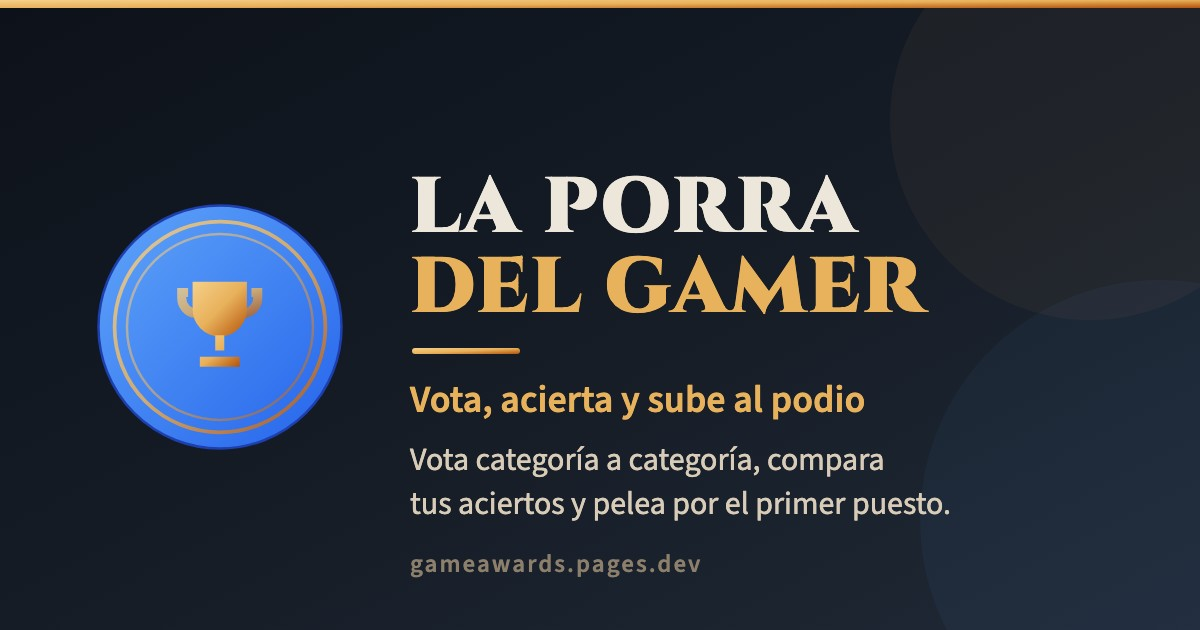
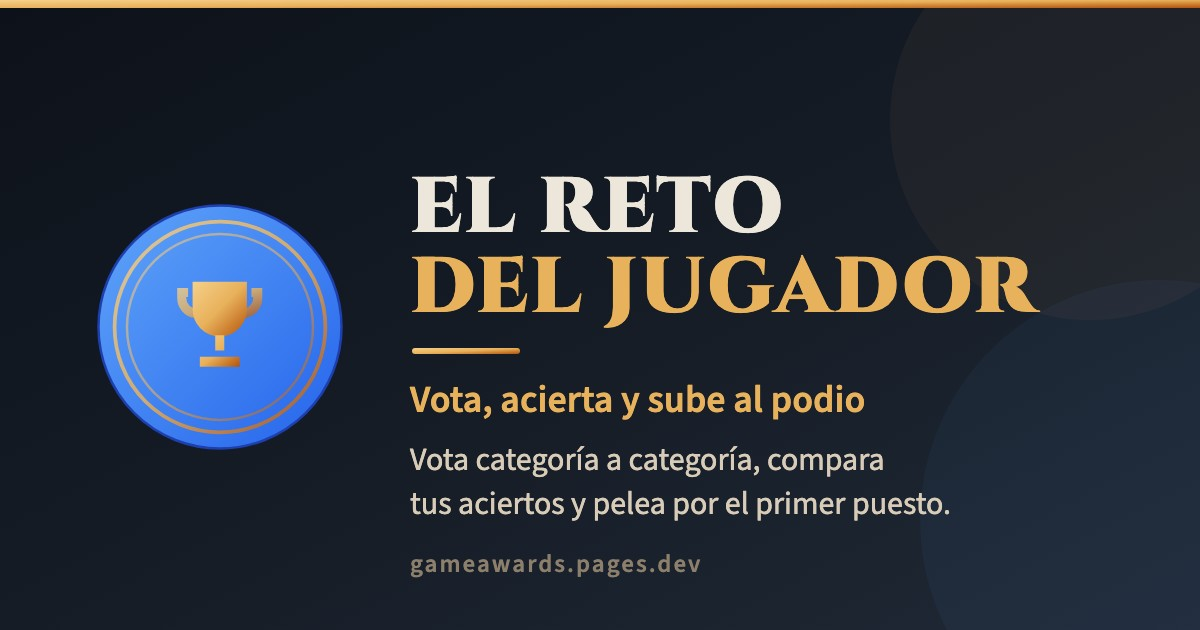
feat: la app pasa a llamarse «El reto del jugador»
Cambia el nombre en i18n (ES: EL RETO / DEL JUGADOR; EN: THE GAMER'S /
CHALLENGE), los metadatos de index.html y la tarjeta al compartir, y
reescribe los textos donde «porra» quedaba como palabra suelta.

El título del login baja a 34px en móviles estrechos: «DEL JUGADOR» mide
386px a 48px y no cabía ni en un viewport de 375.

Changed region(s): [[0.37, 0.2714, 0.8633, 0.5429]]

diff --git a/index.html b/index.html
@@ -4,8 +4,8 @@
     <meta charset="UTF-8" />
     <link rel="icon" type="image/svg+xml" href="/app-icon.svg" />
     <meta name="viewport" content="width=device-width, initial-scale=1.0" />
-    <title>La porra del gamer</title>
-    <meta name="description" content="Participa en la porra del gamer. Vota categoría a categoría y compite por el primer puesto." />
+    <title>El reto del jugador</title>
+    <meta name="description" content="Participa en El reto del jugador. Vota categoría a categoría y compite por el primer puesto." />
     <meta name="theme-color" content="#d8cfbb" />
 
     <!-- Previsualización al compartir el enlace (Open Graph + Twitter Cards).
@@ -21,20 +21,20 @@
          relativas, porque leen el HTML fuera del contexto de la página. -->
     <meta property="og:type" content="website" />
     <meta property="og:url" content="https://gameawards.pages.dev/" />
-    <meta property="og:site_name" content="La porra del gamer" />
+    <meta property="og:site_name" content="El reto del jugador" />
     <meta property="og:locale" content="es_ES" />
-    <meta property="og:title" content="La porra del gamer" />
+    <meta property="og:title" content="El reto del jugador" />
     <meta property="og:description" content="Vota categoría a categoría, compara tus aciertos y pelea por el primer puesto." />
     <meta property="og:image" content="https://gameawards.pages.dev/share-card.jpg" />
     <meta property="og:image:type" content="image/jpeg" />
     <meta property="og:image:width" content="1200" />
     <meta property="og:image:height" content="630" />
-    <meta property="og:image:alt" content="La porra del gamer" />
+    <meta property="og:image:alt" content="El reto del jugador" />
     <meta name="twitter:card" content="summary_large_image" />
-    <meta name="twitter:title" content="La porra del gamer" />
+    <meta name="twitter:title" content="El reto del jugador" />
     <meta name="twitter:description" content="Vota categoría a categoría, compara tus aciertos y pelea por el primer puesto." />
     <meta name="twitter:image" content="https://gameawards.pages.dev/share-card.jpg" />
-    <meta name="twitter:image:alt" content="La porra del gamer" />
+    <meta name="twitter:image:alt" content="El reto del jugador" />
     <link rel="preconnect" href="https://fonts.googleapis.com" />
     <link rel="preconnect" href="https://fonts.gstatic.com" crossorigin />
     <link href="https://fonts.googleapis.com/css2?family=Cinzel:wght@500;700;900&family=Source+Sans+3:wght@400;500;600;700&display=swap" rel="stylesheet" />

diff --git a/src/data/i18n/es.js b/src/data/i18n/es.js
@@ -5,12 +5,12 @@
 
 export const es = {
   // Header
-  appTitle: "LA PORRA",
-  appTitleAccent: "DEL GAMER",
+  appTitle: "EL RETO",
+  appTitleAccent: "DEL JUGADOR",
   votingOpen: "La votación está abierta",
   
   // Login
-  loginSubtitle: "Participa en la porra y compite por el primer puesto",
+  loginSubtitle: "Acepta el reto y compite por el primer puesto",
   resultsAvailable: "Resultados disponibles",
   loginForResultsSubtitle: "La edición ya ha terminado. Entra con tu cuenta de Google para ver los ganadores y la clasificación.",
   loginBtn: "Inicia sesión con Google",
@@ -85,7 +85,7 @@ export const es = {
   checkBackDecember: "Vuelve cuando se publiquen los resultados.",
   signOut: "Cerrar sesión",
   thankYouForVoting: "Gracias por votar",
-  officialsVotingPlatform: "La porra del gamer",
+  officialsVotingPlatform: "El reto del jugador",
   
   // Ya votó (bloqueo de re-voto)
   alreadyVotedTitle: "Ya has votado",
@@ -97,7 +97,7 @@ export const es = {
   votingDeadlineMessage: "El plazo de votación ha terminado",
   votingNotOpenYet: "La votación aún no ha abierto",
   votingOpensSoonMessage: "Esta edición todavía no admite votos",
-  votingOpensOn: "La votación abre el {date}. Vuelve entonces para enviar tu porra.",
+  votingOpensOn: "La votación abre el {date}. Vuelve entonces para enviar tus votos.",
   votesNotAcceptedYet: "Todavía no se aceptan votos. El administrador aún no ha abierto esta edición.",
   status: "Estado",
   closed: "Cerrado",
@@ -248,7 +248,7 @@ export const es = {
   newSeason: "Nueva edición",
   newSeasonHelp: "Ponle nombre y elige hasta qué día se puede votar. La votación se abre en cuanto pulses el botón.",
   seasonNameLabel: "Nombre",
-  seasonNamePlaceholder: "Porra de invierno 2026",
+  seasonNamePlaceholder: "Reto de invierno 2026",
   closesOnLabel: "Se cierra el",
   closesAtEndOfDay: "Se cierra a las 23:59 de ese día (hora peninsular).",
   openSeason: "Abrir votación",

diff --git a/src/data/i18n/en.js b/src/data/i18n/en.js
@@ -6,11 +6,11 @@
 export const en = {
   // Header
   appTitle: "THE GAMER'S",
-  appTitleAccent: "SWEEPSTAKE",
+  appTitleAccent: "CHALLENGE",
   votingOpen: "Voting is now open",
   
   // Login
-  loginSubtitle: "Join the sweepstake and play for first place",
+  loginSubtitle: "Take the challenge and play for first place",
   resultsAvailable: "Results available",
   loginForResultsSubtitle: "This edition is over. Sign in with your Google account to see the winners and the standings.",
   loginBtn: "Sign in with Google",
@@ -85,7 +85,7 @@ export const en = {
   checkBackDecember: "Come back when the results are published.",
   signOut: "Sign Out",
   thankYouForVoting: "Thanks for voting",
-  officialsVotingPlatform: "The gamer's sweepstake",
+  officialsVotingPlatform: "The gamer's challenge",
   
   // Already voted (re-vote block)
   alreadyVotedTitle: "You have already voted",
@@ -248,7 +248,7 @@ export const en = {
   newSeason: "New edition",
   newSeasonHelp: "Give it a name and pick the last day to vote. Voting opens as soon as you press the button.",
   seasonNameLabel: "Name",
-  seasonNamePlaceholder: "Winter sweepstake 2026",
+  seasonNamePlaceholder: "Winter challenge 2026",
   closesOnLabel: "Closes on",
   closesAtEndOfDay: "Closes at 23:59 that day (Spanish peninsular time).",
   openSeason: "Open voting",

diff --git a/src/components/LoginScreen.jsx b/src/components/LoginScreen.jsx
@@ -38,7 +38,7 @@ export default function LoginScreen({
         <div className="w-full max-w-2xl">
           {/* Hero Section */}
           <div className="text-center mb-16">
-            <h1 className="text-5xl md:text-7xl font-black tracking-wide theme-display uppercase theme-text-primary mb-4 leading-tight">
+            <h1 className="text-[2.125rem] sm:text-5xl md:text-7xl font-black tracking-wide theme-display uppercase theme-text-primary mb-4 leading-tight">
               {t('appTitle')}
               <span className="block theme-accent">{t('appTitleAccent')}</span>
             </h1>

diff --git a/CLAUDE.md b/CLAUDE.md
@@ -1,14 +1,14 @@
-# CLAUDE.md — La porra del gamer
+# CLAUDE.md — El reto del jugador
 
 Guía para Claude Code al trabajar en este repositorio. Léela antes de tocar código.
 
 ## Qué es
 
 App de votación para una porra de premios de videojuegos. Los usuarios entran con Google,
-votan categoría por categoría, revisan y envían su porra (un voto por usuario). Hay un panel de
+votan categoría por categoría, revisan y envían sus votos (un voto por usuario). Hay un panel de
 admin oculto en la ruta `/admin` para gestionar categorías, ganadores y resultados.
 
-**Se llama «La porra del gamer»** (`appTitle` + `appTitleAccent` en i18n) y **no es de nadie
+**Se llama «El reto del jugador»** (`appTitle` + `appTitleAccent` en i18n) y **no es de nadie
 más**: no se nombra ninguna marca ajena ni se dice ser la plataforma oficial de nada. Si añades
 un texto, que no prometa lo que la app no hace —no hay notificaciones, ni ceremonia, ni términos
 legales, ni fecha comprometida para la próxima edición—. El dominio es `gameawards.pages.dev`.
@@ -284,7 +284,7 @@ No se usa router; la navegación entre categorías es estado de React.
 
 - **Los ganadores NO viven en `categories`.** Esa colección tiene que ser de lectura pública para
   poder votar, y las reglas de Firestore protegen documentos enteros, no campos sueltos: un
-  `winner` ahí era el resultado de la porra al alcance de cualquiera, sin sesión siquiera, desde
+  `winner` ahí era el resultado del reto al alcance de cualquiera, sin sesión siquiera, desde
   que el admin lo marcaba. Viven en **`admin/winners`** (`{ winners: { categoryId: optionId } }`),
   y el único canal público es el snapshot `results/{seasonId}`, que las reglas no dejan leer hasta
   `resultsAt`. `winnersService.saveWinners()` **migra solo**: escribe el documento nuevo y borra el
@@ -361,8 +361,8 @@ No se usa router; la navegación entre categorías es estado de React.
     son el resultado histórico y no se pueden recalcular: los votos de esa edición se borraron
     al reiniciarla, así que tocarlos dejaría el archivo incoherente.
   - Cambiar el `seasonId` de la edición en curso hace que la siguiente publicación cree un
-    archivo NUEVO en vez de reescribir el anterior. Es lo que permite «Porra TGA 2026» y
-    «Porra de verano 2026» a la vez.
+    archivo NUEVO en vez de reescribir el anterior. Es lo que permite «Reto de invierno 2026» y
+    «Reto de verano 2026» a la vez.
 
 ### Rejilla de nominados (adaptación a pantalla)
 

diff --git a/README.md b/README.md
@@ -1,7 +1,7 @@
-# TGA Ballot — porra de The Game Awards
+# TGA Ballot — El reto del jugador
 
-Aplicación de votación para The Game Awards. Los usuarios entran con Google, votan categoría
-por categoría, revisan su porra y la envían. Un voto por persona, no modificable.
+Aplicación de votación para una porra de premios de videojuegos, «El reto del jugador». Los
+usuarios entran con Google, votan categoría por categoría, revisan sus votos y los envían. Un voto por persona, no modificable.
 
 Hay un panel de administración en la ruta oculta `/admin` para gestionar categorías, nominados,
 ganadores y el ciclo anual.
